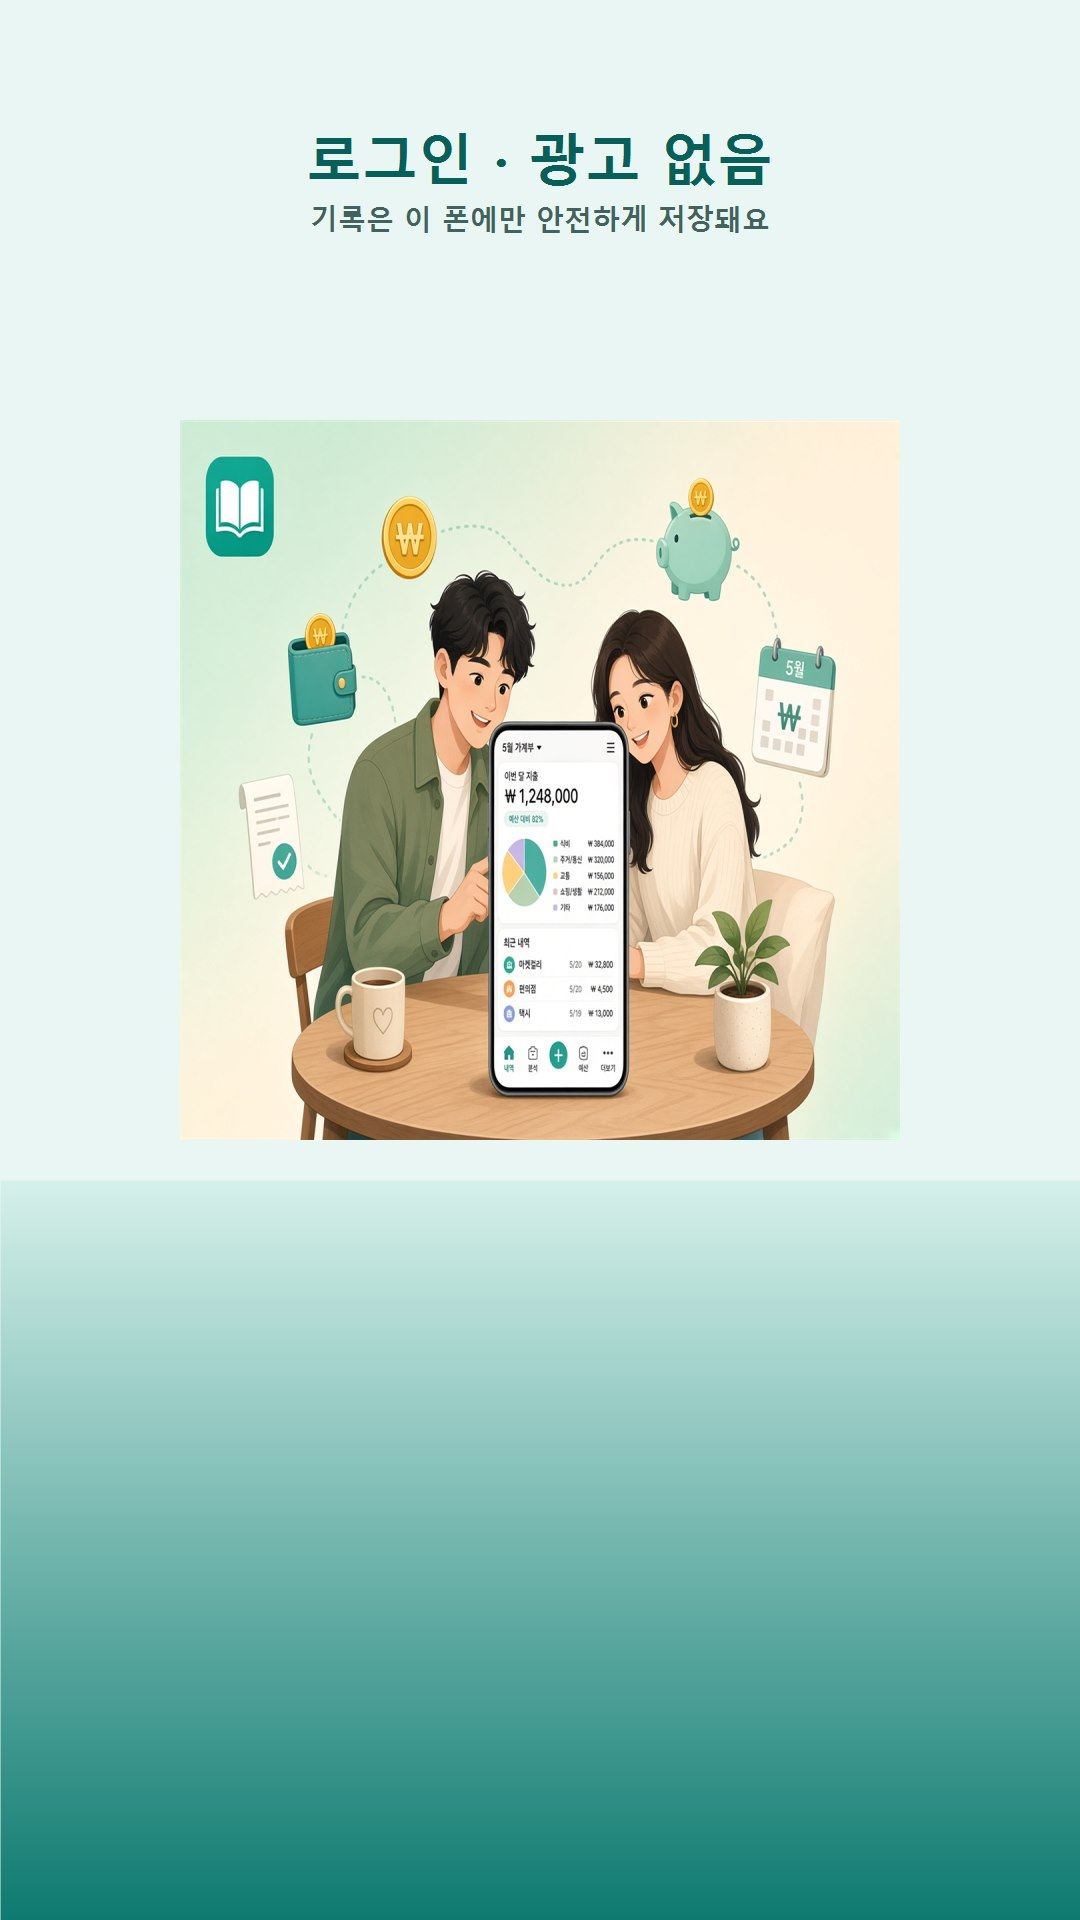
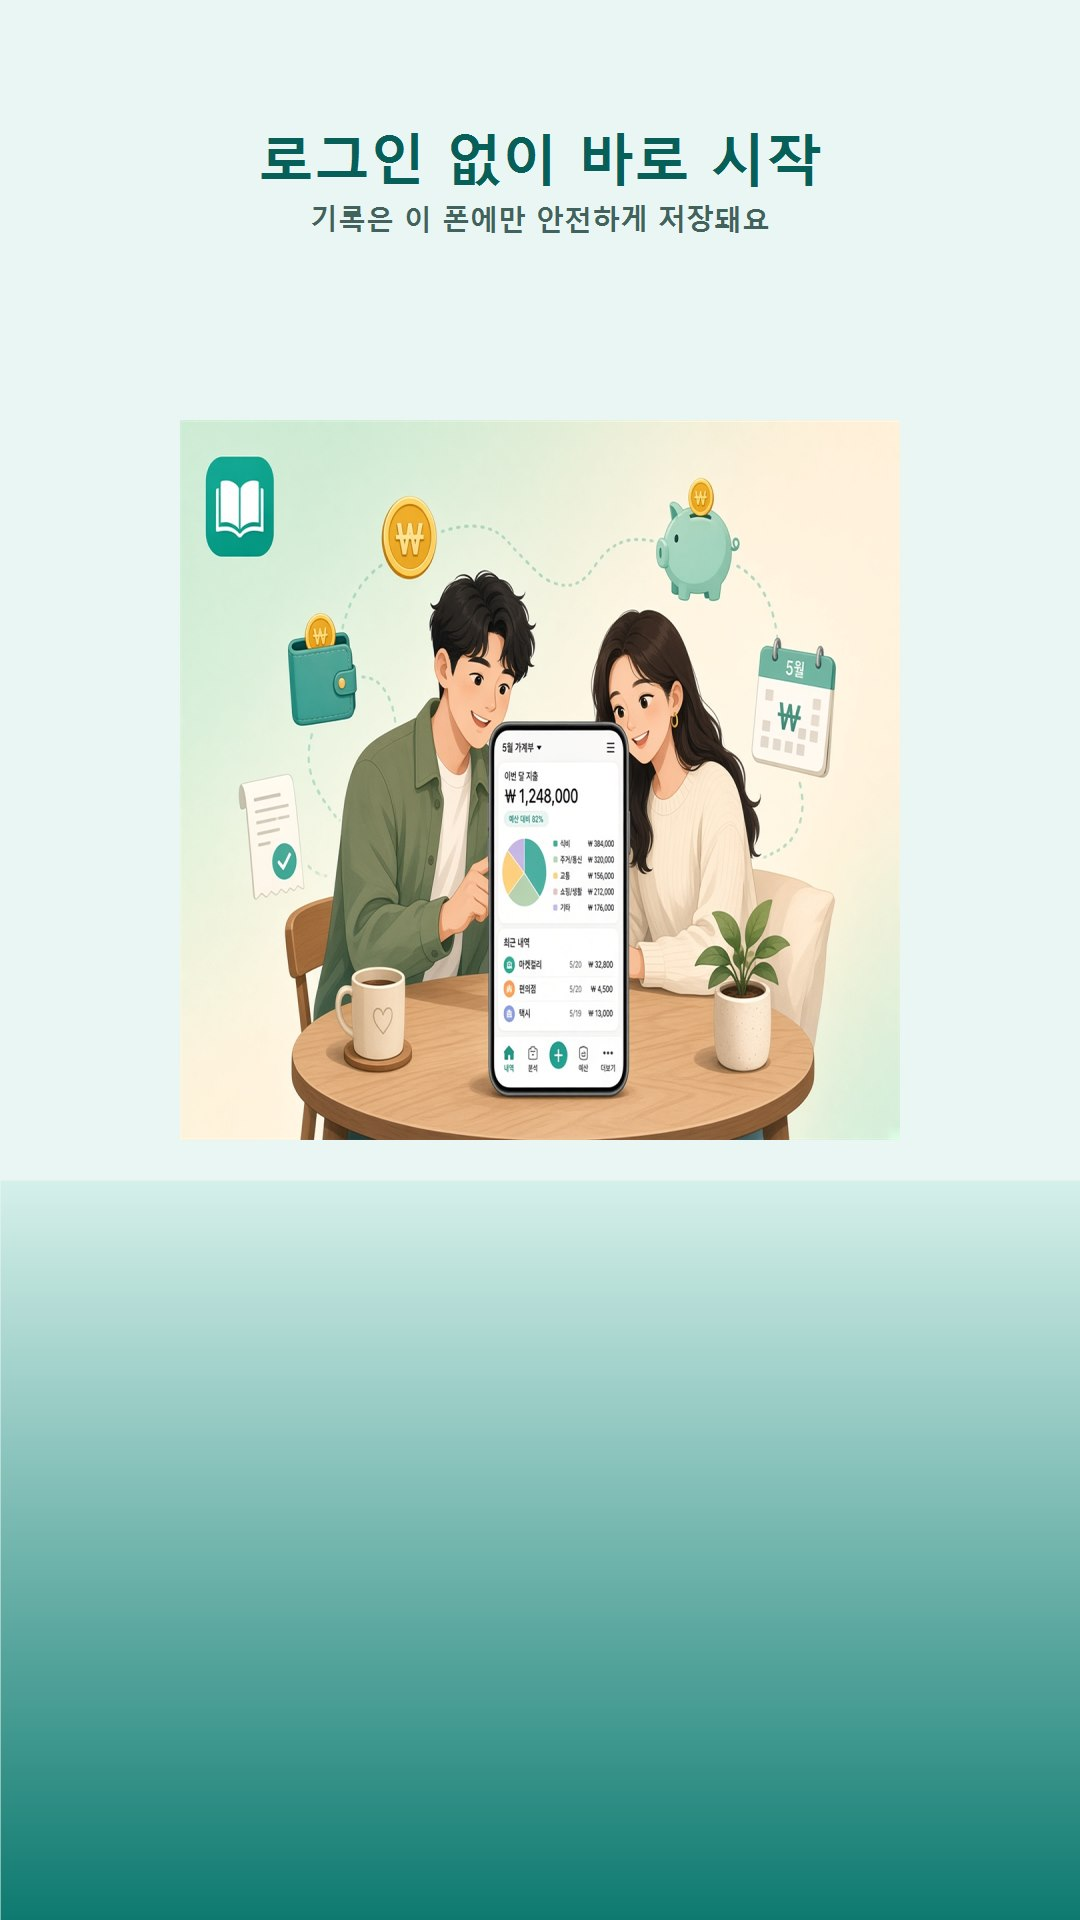
Remove no-ads claims from listing copy and marketing assets.
Keep messaging flexible for a possible future ad-supported release.

Changed region(s): [[0.2444, 0.0625, 0.7639, 0.0938]]

diff --git a/website/index.html b/website/index.html
@@ -4,9 +4,9 @@
   <meta charset="UTF-8" />
   <meta name="viewport" content="width=device-width, initial-scale=1" />
   <title>쉬운가계부 — 로그인 없이, 오늘 쓴 돈만 가볍게</title>
-  <meta name="description" content="쉬운가계부는 광고·로그인 없이 이 폰 안에서만 쓰는 개인 가계부입니다. 빠른 입력, 달력, 내역·통계, 고정비, 위젯까지 한 번에." />
+  <meta name="description" content="쉬운가계부는 로그인 없이 이 폰 안에서만 쓰는 개인 가계부입니다. 빠른 입력, 달력, 내역·통계, 고정비, 위젯까지 한 번에." />
   <meta property="og:title" content="쉬운가계부 — 로그인 없이, 오늘 쓴 돈만 가볍게" />
-  <meta property="og:description" content="광고 없는 오프라인 가계부. 입력·달력·통계·고정비·위젯으로 한 달을 단정하게 돌아보세요." />
+  <meta property="og:description" content="오프라인 가계부. 입력·달력·통계·고정비·위젯으로 한 달을 단정하게 돌아보세요." />
   <meta property="og:type" content="website" />
   <meta property="og:image" content="./assets/icon.png" />
   <link rel="icon" href="./assets/icon.png" />
@@ -33,7 +33,7 @@
             오늘 쓴 돈,<br />가볍게 남기고 단정하게 돌아보기
           </h1>
           <p class="hero-lead">
-            쉬운가계부는 광고·클라우드 없이 이 기기 안에서만 쓰는 개인 가계부예요.
+            쉬운가계부는 클라우드 없이 이 기기 안에서만 쓰는 개인 가계부예요.
             카테고리만 고르면 금액 키패드가 바로 열리고, 달력·내역·통계로 한 달을 한눈에 볼 수 있어요.
             급여·월세 같은 고정비와 홈 화면 위젯까지 챙겨 줍니다.
           </p>
@@ -43,7 +43,7 @@
             <a class="btn btn-ghost" href="./guide.html">사용 방법</a>
           </div>
           <ul class="checklist">
-            <li>로그인·광고 없이 바로 시작</li>
+            <li>로그인 없이 바로 시작</li>
             <li>어제·오늘·000 키로 입력이 짧아져요</li>
             <li>달력 FAB로 그 날짜에 바로 기록</li>
             <li>내역 상단에 이번 달 합계가 고정</li>
@@ -64,7 +64,7 @@
 
       <div class="wrap">
         <div class="strip" aria-label="핵심 포인트">
-          <div class="strip-item"><strong>0원</strong><span>광고·구독 없음</span></div>
+          <div class="strip-item"><strong>0원</strong><span>구독 없음</span></div>
           <div class="strip-item"><strong>오프라인</strong><span>이 기기에서만 저장</span></div>
           <div class="strip-item"><strong>위젯</strong><span>오늘 수입·지출 한눈</span></div>
           <div class="strip-item"><strong>고정비</strong><span>급여·월세 자동 반영</span></div>
@@ -180,7 +180,7 @@
         <div class="about-lead">
           <div>
             <p style="margin:0 0 14px;color:var(--muted);font-size:1.02rem;">
-              가계부 앱이 많지만, 가입·광고·동기화 때문에 손이 가기도 해요. 쉬운가계부는 그 부담을 빼 두고
+              가계부 앱이 많지만, 가입·동기화 때문에 손이 가기도 해요. 쉬운가계부는 그 부담을 빼 두고
               <strong style="color:var(--brand-deep);">카테고리 → 금액 → 저장</strong>만 남겼습니다.
               한 달이 지나면 달력과 통계로 “어디에 썼지?”를 바로 확인하고, 급여·월세처럼 반복되는 돈은 규칙으로 자동 반영합니다.
             </p>
@@ -240,7 +240,7 @@
           </article>
           <article class="use-item">
             <h3>계정 없이 쓰는 가계부</h3>
-            <p>가입·광고 없이, 이 기기 안에서만 가볍게. 필요할 때만 파일로 백업하세요.</p>
+            <p>가입 없이, 이 기기 안에서만 가볍게. 필요할 때만 파일로 백업하세요.</p>
           </article>
         </div>
       </div>
@@ -377,7 +377,7 @@
         <div class="grid-2">
           <article class="panel">
             <h3>회원가입이 없어요</h3>
-            <p>이메일·비밀번호·소셜 로그인 없이 바로 씁니다. 광고도 없습니다.</p>
+            <p>이메일·비밀번호·소셜 로그인 없이 바로 씁니다.</p>
           </article>
           <article class="panel">
             <h3>데이터는 이 폰에만</h3>
@@ -404,7 +404,7 @@
 
         <details>
           <summary>정말 무료인가요? 구독이 있나요?</summary>
-          <p>네. 광고·인앱 결제·구독 없이 사용할 수 있어요.</p>
+          <p>네. 인앱 결제·구독 없이 사용할 수 있어요.</p>
         </details>
         <details>
           <summary>다른 폰으로 옮길 수 있나요?</summary>

diff --git a/website/about.html b/website/about.html
@@ -25,8 +25,8 @@
         <div class="about-lead">
           <div>
             <h2 style="margin-top:0">쉬운가계부는</h2>
-            <p>로그인·광고·클라우드 없이 이 기기 안에서만 동작하는 개인용 오프라인 가계부입니다. 카테고리를 고르면 금액 키패드가 바로 열리고, 달력·내역·통계로 한 달의 흐름을 단정하게 확인할 수 있어요.</p>
-            <p>목표는 단순합니다. <strong>기록은 짧게, 돌아보기는 한눈에, 데이터는 내 폰에만.</strong> 가입 절차나 광고 배너 없이, 오늘 쓴 돈을 남기는 데만 집중합니다.</p>
+            <p>로그인·클라우드 없이 이 기기 안에서만 동작하는 개인용 오프라인 가계부입니다. 카테고리를 고르면 금액 키패드가 바로 열리고, 달력·내역·통계로 한 달의 흐름을 단정하게 확인할 수 있어요.</p>
+            <p>목표는 단순합니다. <strong>기록은 짧게, 돌아보기는 한눈에, 데이터는 내 폰에만.</strong> 가입 절차 없이, 오늘 쓴 돈을 남기는 데만 집중합니다.</p>
           </div>
           <div class="illust-panel">
             <img src="./assets/welcome-illust.png" width="480" height="480" alt="쉬운가계부 일러스트" />
@@ -77,11 +77,11 @@
           <article class="panel"><h3>기록은 빠르게</h3><p>어제·오늘, 자주 쓰는 금액, 00·000 키로 손이 덜 가요. 카테고리를 누르면 키패드가 바로 열립니다.</p></article>
           <article class="panel"><h3>한 달은 한눈에</h3><p>달력·내역·통계로 합계와 비중을 바로 확인해요. 차액은 총수입에서 총지출을 뺀 값입니다.</p></article>
           <article class="panel"><h3>반복은 자동으로</h3><p>고정 수입·지출 규칙을 등록하면 해당 날짜에 반영돼요. 규칙을 멈춰도 이미 쌓인 기록은 그대로입니다.</p></article>
-          <article class="panel"><h3>이 폰에만 안전하게</h3><p>서버 동기화 없이, 필요할 때만 파일로 백업해요. 광고·로그인·구독이 없습니다.</p></article>
+          <article class="panel"><h3>이 폰에만 안전하게</h3><p>서버 동기화 없이, 필요할 때만 파일로 백업해요. 로그인·구독이 없습니다.</p></article>
         </div>
 
         <h2>만들지 않은 것</h2>
-        <p>쉬운가계부는 의도적으로 단순합니다. 계좌 연동, 클라우드 동기화, 광고, 구독 결제, SNS 로그인은 넣지 않았어요. 대신 “오늘 쓴 돈을 남기고 한 달을 돌아보는” 경험에만 집중했습니다.</p>
+        <p>쉬운가계부는 의도적으로 단순합니다. 계좌 연동, 클라우드 동기화, 구독 결제, SNS 로그인은 넣지 않았어요. 대신 “오늘 쓴 돈을 남기고 한 달을 돌아보는” 경험에만 집중했습니다.</p>
 
         <p style="margin-top:28px">
           <a class="btn btn-primary" href="https://play.google.com/store/apps/details?id=com.sunwoo.easyledger" rel="noopener" target="_blank">Google Play에서 받기</a>

diff --git a/website/faq.html b/website/faq.html
@@ -23,7 +23,7 @@
     <section class="page-content">
       <div class="wrap prose">
         <div class="faq">
-          <details open><summary>정말 무료인가요? 구독이 있나요?</summary><p>네. 광고·인앱 결제·구독 없이 사용할 수 있어요.</p></details>
+          <details open><summary>정말 무료인가요? 구독이 있나요?</summary><p>네. 인앱 결제·구독 없이 사용할 수 있어요.</p></details>
           <details><summary>다른 폰으로 옮길 수 있나요?</summary><p>설정 → 백업에서 파일을 저장한 뒤, 새 기기에서 복원하면 됩니다. 복원 전 현재 데이터는 덮어쓰이니 주의해 주세요.</p></details>
           <details><summary>차액은 통장 잔액인가요?</summary><p>아니요. 선택한 기간의 총수입에서 총지출을 뺀 값이에요. “이번 달 얼마나 남겼나”를 보는 숫자입니다.</p></details>
           <details><summary>위젯이 안 보여요.</summary><p>홈 화면을 길게 누르거나 위젯 추가 메뉴에서 「쉬운가계부」를 찾아 추가해 주세요. 크기를 키우면 목록이 더 많이 보입니다.</p></details>

diff --git a/website/privacy.html b/website/privacy.html
@@ -31,7 +31,7 @@
           <li>백업 파일: 사용자가 직접 내보낸 경우에만 사용자가 선택한 위치에 저장</li>
         </ul>
         <h2>3. 제3자 제공 · 처리 위탁</h2>
-        <p>서비스 운영을 위한 외부 서버 전송·제3자 제공·처리 위탁을 하지 않습니다. 광고 SDK를 사용하지 않습니다.</p>
+        <p>서비스 운영을 위한 외부 서버 전송·제3자 제공·처리 위탁을 하지 않습니다. 정책이 바뀌면 이 페이지와 앱 안에서 안내합니다.</p>
         <h2>4. 보유 및 파기</h2>
         <p>데이터는 사용자가 앱을 사용하는 동안 기기에 보관됩니다. 앱 삭제 또는 사용자가 초기화·복원·삭제 기능을 사용하면 관련 데이터가 삭제될 수 있습니다.</p>
         <h2>5. 권한</h2>

diff --git a/website/site.js b/website/site.js
@@ -33,7 +33,7 @@
     <div class="wrap footer-columns">
       <div class="footer-col">
         <h3>쉬운가계부</h3>
-        <p>로그인·광고 없이 이 폰 안에서만 쓰는 개인 가계부예요. 빠른 입력, 달력·내역·통계, 고정비와 홈 위젯으로 오늘 쓴 돈을 가볍게 남기고 한 달을 단정하게 돌아보세요. 완전 무료.</p>
+        <p>로그인 없이 이 폰 안에서만 쓰는 개인 가계부예요. 빠른 입력, 달력·내역·통계, 고정비와 홈 위젯으로 오늘 쓴 돈을 가볍게 남기고 한 달을 단정하게 돌아보세요. 완전 무료.</p>
       </div>
       <div class="footer-col">
         <h3>바로가기</h3>

diff --git a/website/data.html b/website/data.html
@@ -25,7 +25,7 @@
         <h2>어디에 저장되나요?</h2>
         <p>거래, 카테고리, 고정비 규칙, 설정값은 모두 이 스마트폰의 앱 저장소에만 보관됩니다. 클라우드 동기화나 외부 서버 전송은 없습니다.</p>
         <h2>회원가입이 없어요</h2>
-        <p>이메일·비밀번호·소셜 로그인 없이 바로 사용합니다. 광고도 없습니다.</p>
+        <p>이메일·비밀번호·소셜 로그인 없이 바로 사용합니다.</p>
         <h2>백업 · 복원</h2>
         <ul>
           <li>설정에서 백업 파일을 만들어 내가 원하는 위치에 저장할 수 있어요.</li>
